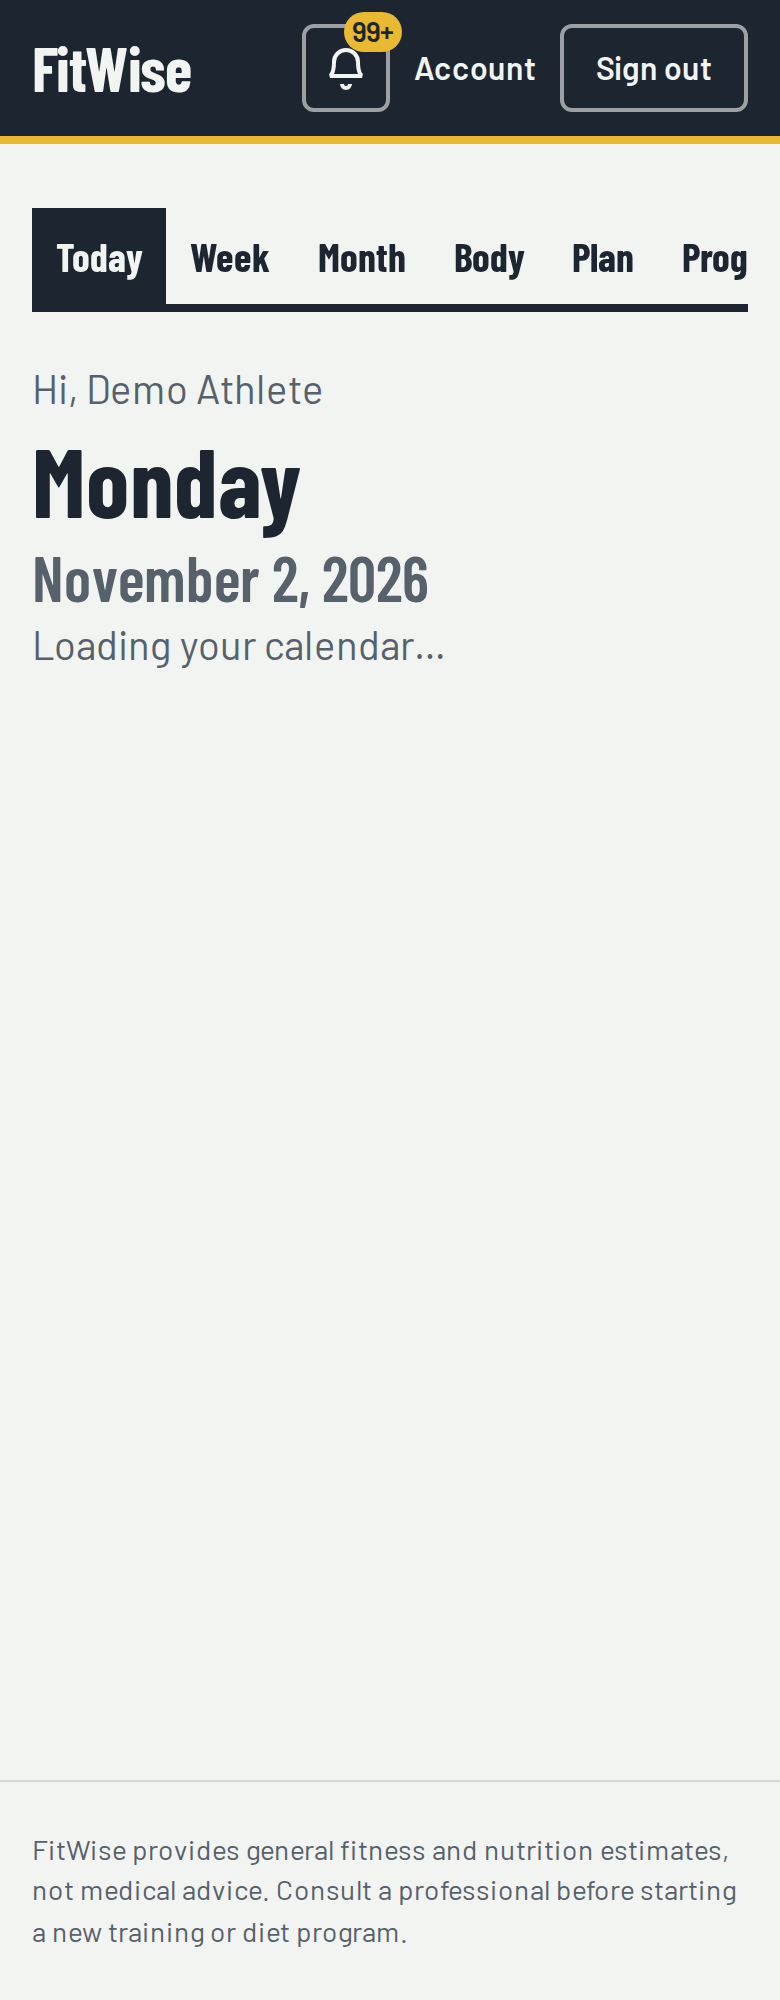
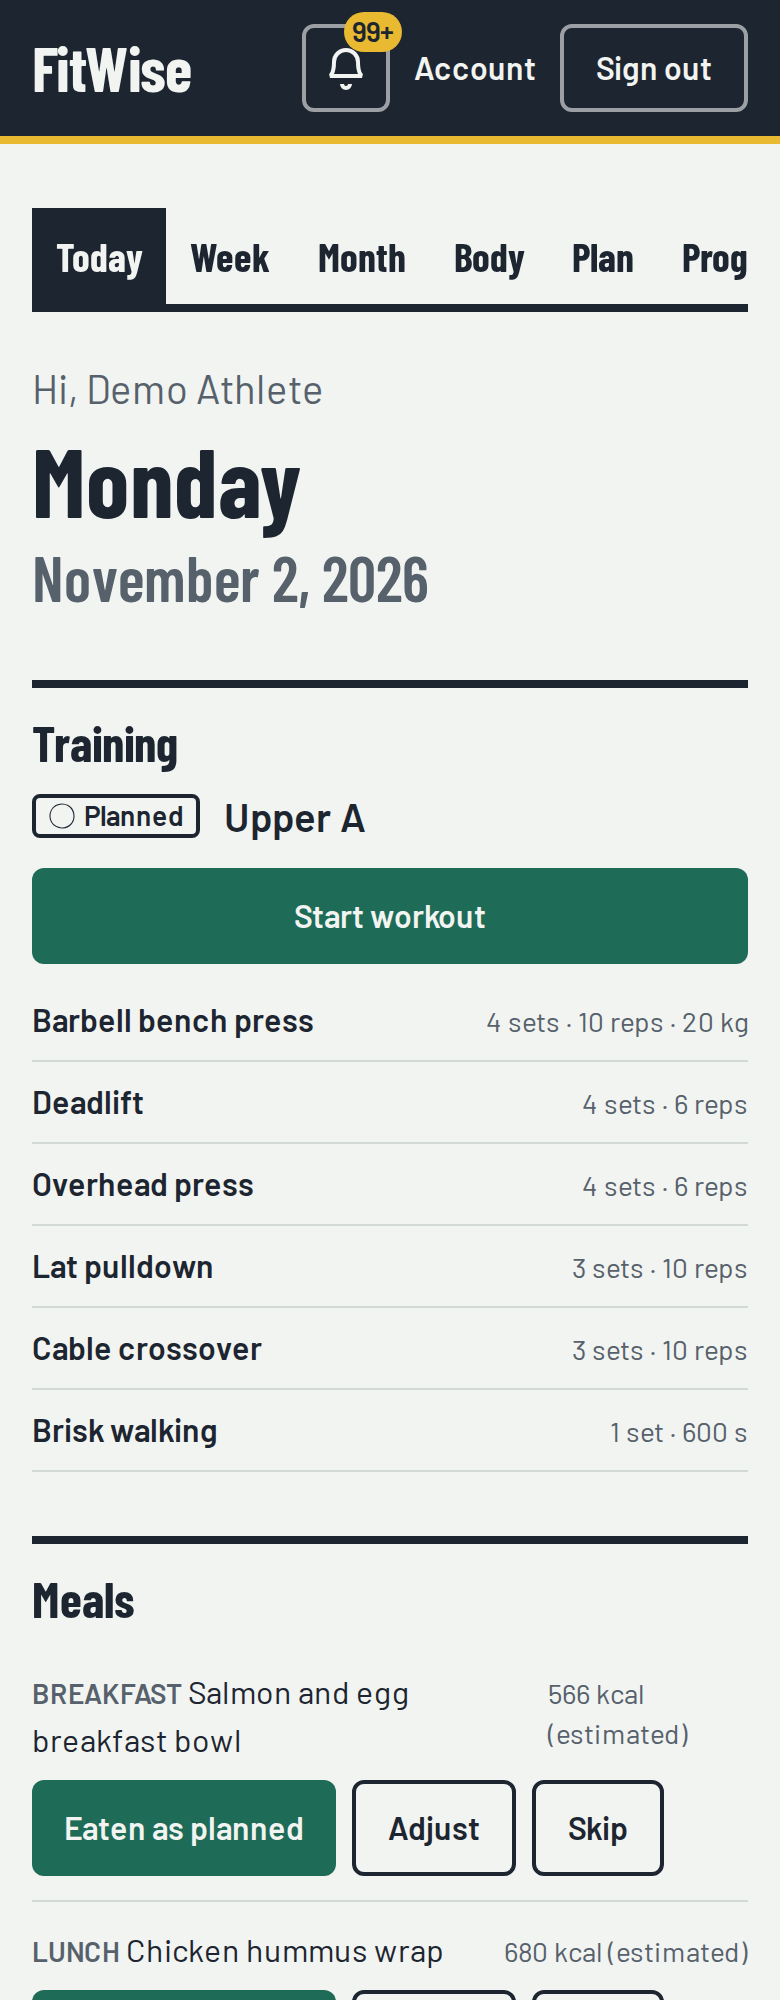
Correct the F18 export limitation and recapture the Today screenshot (#53)

diff --git a/README.md b/README.md
@@ -256,7 +256,7 @@ up within 5 s (`FLAG_CACHE_TTL_SECONDS`), without a restart.
 | Plain HTTP, no domain or TLS | Credentials and health data are not encrypted in transit; use test data only. HTTPS is roadmap item 1 | [spec §6.4](docs/spec.md#64-security), [ADR 0003](docs/adr/0003-plain-http-known-limitation.md) |
 | The exercise-note `session_id` is not validated against the exercise | The session must belong to the athlete, but it is not checked that the noted exercise was part of it, so a note can point at an unrelated session | #49, [PR #194](https://github.com/DanielB280320/AiDevToolsZoomcamp_FinalProject/pull/194) |
 | Seed wording drift | The spec and issue say the demo history runs "up to today"; the seed as built ends yesterday and leaves today open (this README states the built behaviour). `weeks=8` is not a valid chart parameter (4, 12, 26, 52 only) | #51, [PR #195](https://github.com/DanielB280320/AiDevToolsZoomcamp_FinalProject/pull/195) |
-| The F18 data export may include a coach's `food_id`/`food_name` or `planned_meal.meal_id` | The export can contain identifiers or names that come from a coach's edits, not only the athlete's own entries | #50, [PR #196](https://github.com/DanielB280320/AiDevToolsZoomcamp_FinalProject/pull/196) |
+| The F18 data export can contain a coach-set `planned_meal.meal_id` | A meal id that a coach set in the athlete's plan can appear in the export; the athlete's own logged `food_id`/`food_name` are expected there. Meal logs are athlete-only, so a coach's food does not reach the logs. Basis: [spec §19 D66](docs/spec.md#19-decisions-log) | #50, [PR #196](https://github.com/DanielB280320/AiDevToolsZoomcamp_FinalProject/pull/196) |
 | `POST /me/delete` has no rate limit on password attempts | A signed-in session could guess the confirmation password without being throttled | #50, [PR #196](https://github.com/DanielB280320/AiDevToolsZoomcamp_FinalProject/pull/196) |
 | On-call agent not yet verified live | Code merged (PRs #143, #165), live verification on prod pending; demo scenarios S1 and S2 are documented, run pending | #69 |
 
